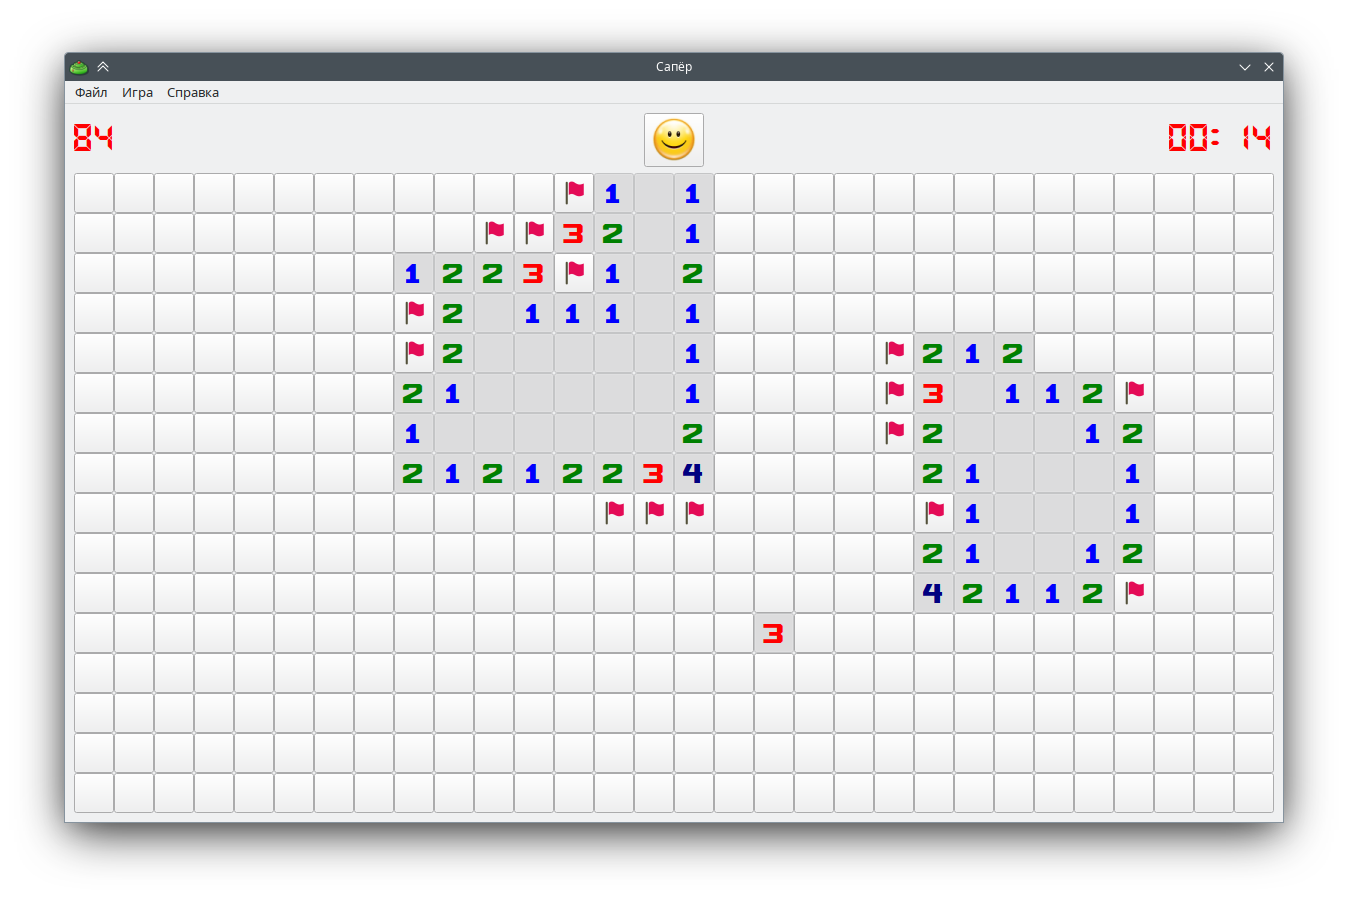
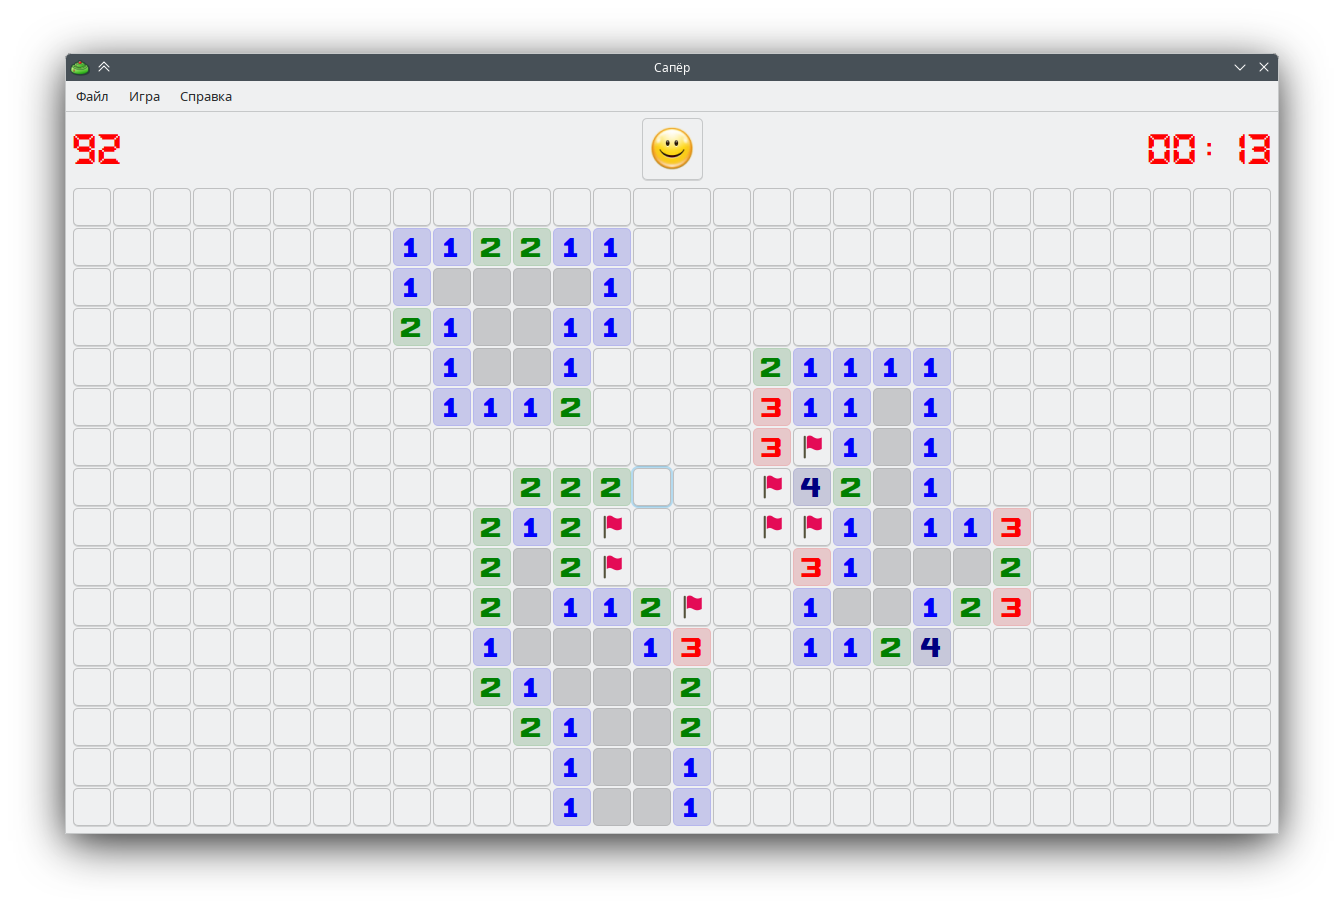
Sapper 25.12.1
* Updated fonts

Changed region(s): [[0.0312, 0.0623, 0.9688, 0.9344], [0.9375, 0.0623, 0.9688, 0.0934]]

diff --git a/apps/sapper/src/resources.c b/apps/sapper/src/resources.c
@@ -10,10 +10,10 @@ static const unsigned char mineSweeperFontBytes[] = {
 };
 const struct resource_t MINE_SWEEPER_FONT = {.bytes_ = mineSweeperFontBytes, .size_ = sizeof mineSweeperFontBytes};
 
-static const unsigned char neatLcdFontBytes[] = {
-#embed "../resources/neat-lcd.ttf"
+static const unsigned char pixelLcd7FontBytes[] = {
+#embed "../resources/Pixel-LCD-7.ttf"
 };
-const struct resource_t NEAT_LCD_FONT = {.bytes_ = neatLcdFontBytes, .size_ = sizeof neatLcdFontBytes};
+const struct resource_t PIXEL_LCD_7_FONT = {.bytes_ = pixelLcd7FontBytes, .size_ = sizeof pixelLcd7FontBytes};
 
 // Icons
 

diff --git a/apps/sapper/src/main.cpp b/apps/sapper/src/main.cpp
@@ -14,7 +14,7 @@ int main(int argc, char *argv[]) {
     QFontDatabase::addApplicationFontFromData(
         QByteArray(reinterpret_cast<const char *>(res::MINE_SWEEPER_FONT.bytes_), res::MINE_SWEEPER_FONT.size_));
     QFontDatabase::addApplicationFontFromData(
-        QByteArray(reinterpret_cast<const char *>(res::NEAT_LCD_FONT.bytes_), res::NEAT_LCD_FONT.size_));
+        QByteArray(reinterpret_cast<const char *>(res::PIXEL_LCD_7_FONT.bytes_), res::PIXEL_LCD_7_FONT.size_));
 
     QApplication::setOrganizationDomain("panteleyev.org");
     QApplication::setApplicationName("Sapper");

diff --git a/apps/sapper/src/ui/mainwindow.cpp b/apps/sapper/src/ui/mainwindow.cpp
@@ -49,7 +49,7 @@ MainWindow::MainWindow(QWidget *parent)
                 onGameStatusChanged(x, status);
             }},
       eventFilter_{this}, boardSize_{BoardSize::BIG}, buttonFont_{"Mine-Sweeper", 14, QFont::Medium},
-      lcdFont_{"Neat LCD", 20, QFont::Medium}, gameTimer_{[this](auto seconds) {
+      lcdFont_{"Pixel LCD7", 26, QFont::Medium}, gameTimer_{[this](auto seconds) {
           onTimerUpdate(seconds);
       }},
       scoreBoardDialog_{new ScoreBoardDialog{this, scoreBoard_}}, boardSizeDialog_{new BoardSizeDialog{this}} {

diff --git a/apps/sapper/src/resources.h b/apps/sapper/src/resources.h
@@ -15,7 +15,7 @@ struct resource_t {
 
 // Fonts
 extern const struct resource_t MINE_SWEEPER_FONT;
-extern const struct resource_t NEAT_LCD_FONT;
+extern const struct resource_t PIXEL_LCD_7_FONT;
 
 // Images
 extern const struct resource_t BLACK_FLAG_PNG;
